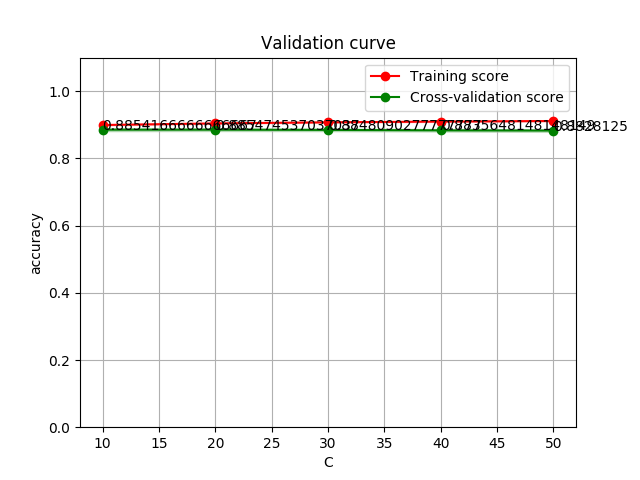
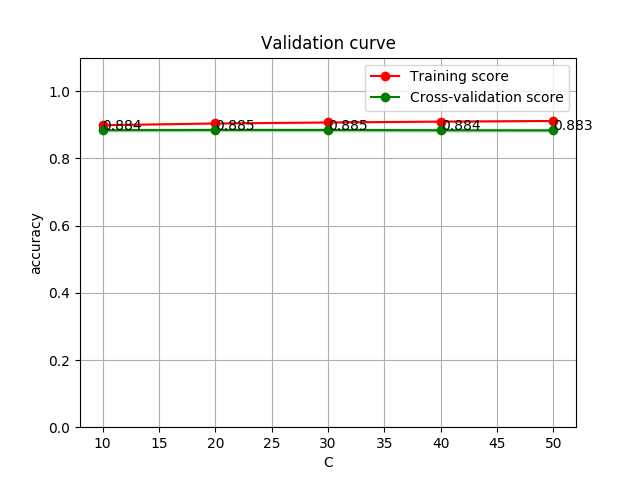
figures with labels

Changed region(s): [[0.1562, 0.25, 1.0, 0.2812]]

diff --git a/tuning.py b/tuning.py
@@ -44,7 +44,7 @@ def plot_curve(curve_fxn, extra_curve_args, model, title, xlabel, ylabel, fname,
     plt.plot(xvals, test_scores_mean, 'o-', color="g",
            label="Cross-validation score")
     for a,b in zip(xvals, test_scores_mean):
-        plt.text(a,b,str(b))
+        plt.text(a,b,'%.3f' % b)
     plt.legend(loc='best')
     plt.savefig(fname)
     plt.clf()
@@ -65,7 +65,7 @@ plot_curve(
 optimal_C=30
 plot_curve(
     learning_curve, {}, SVC(C=optimal_C), 
-    'Learning curve', 'training size', 'accuracy', 'kernel_svc_learning_curve.png', 
+    'Learning curve', 'training size', 'accuracy', 'kernel_svm_learning_curve.png', 
     X, y, 
     1, 2, 0
 )
